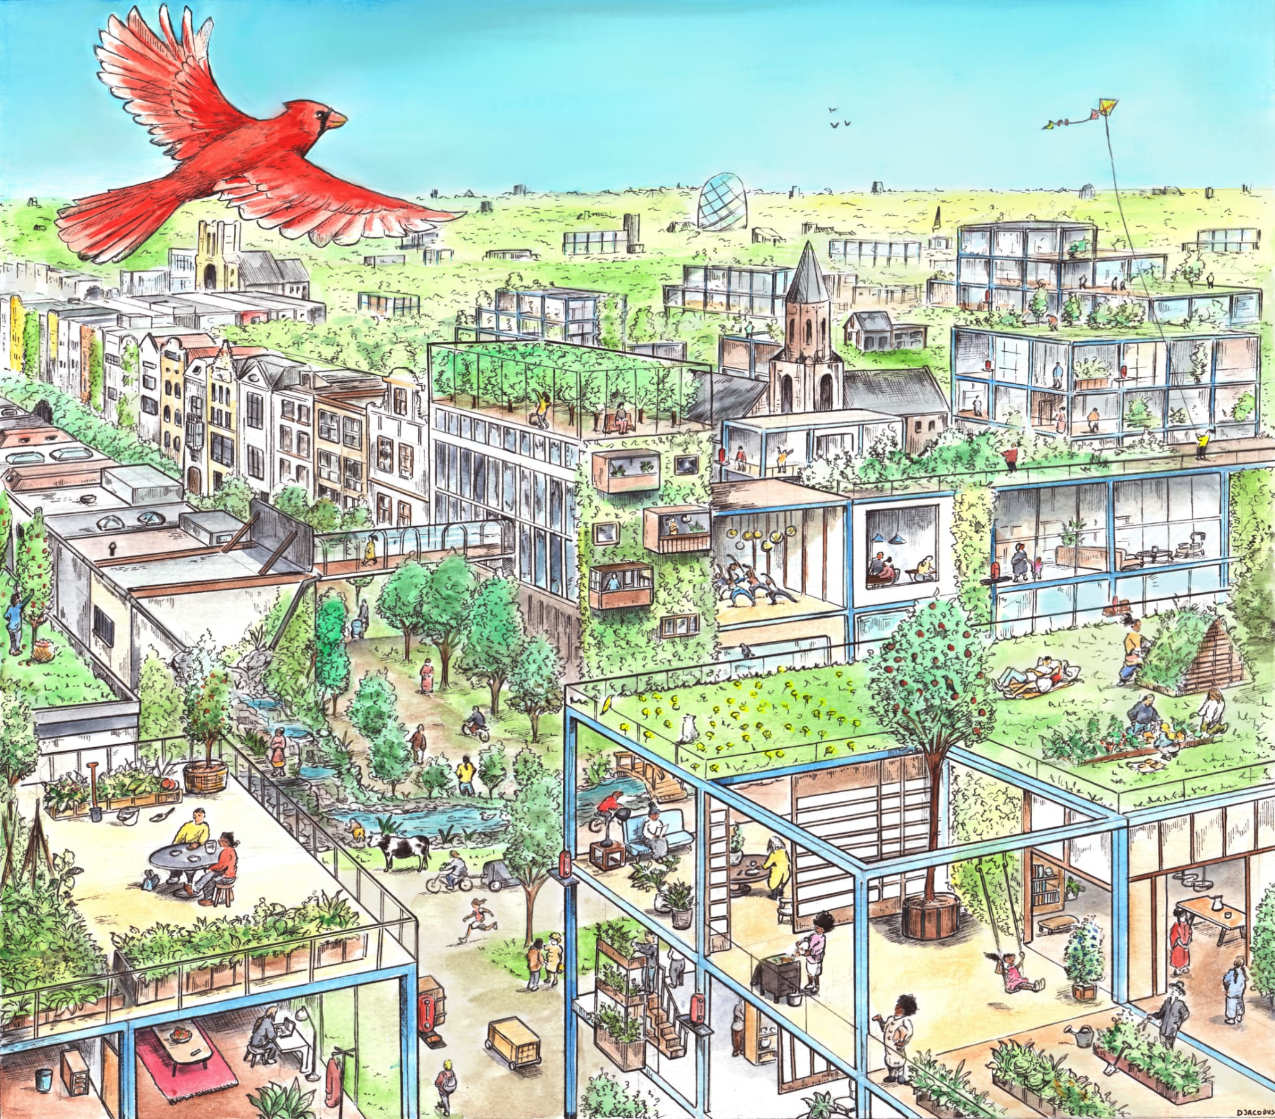
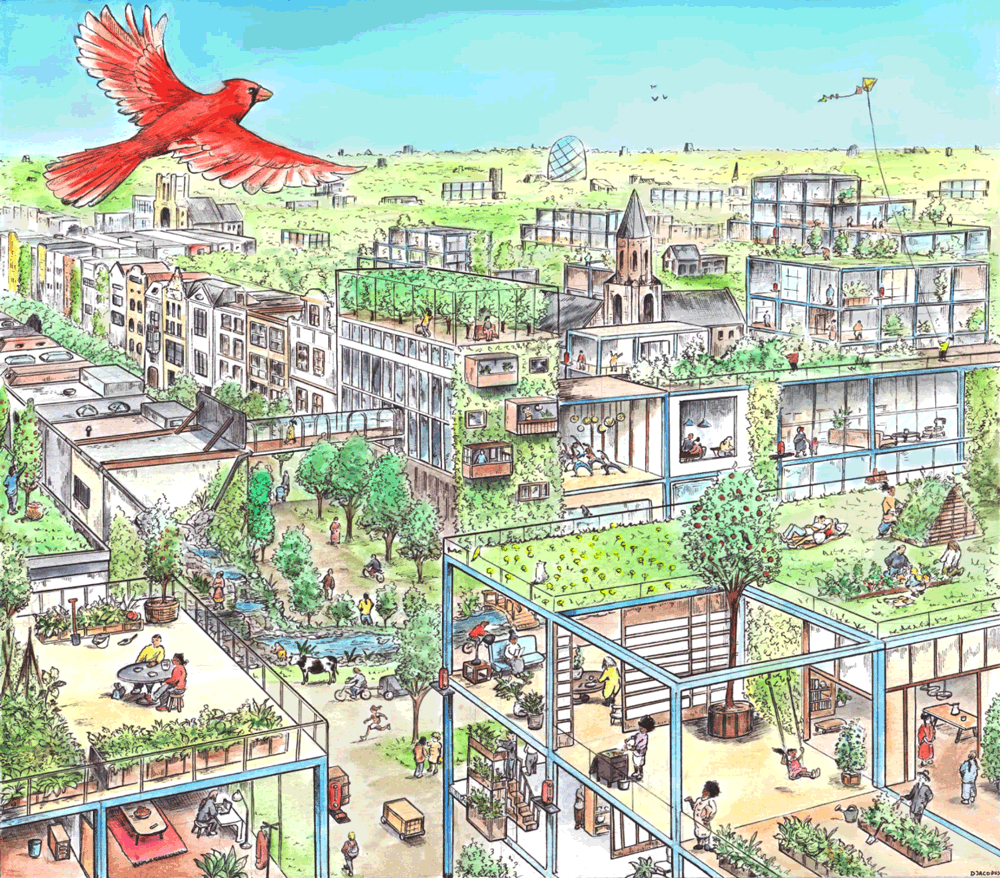
fixed images

diff --git a/frontend/solarpunk/stories/city-starlight-cemetery/index.html b/frontend/solarpunk/stories/city-starlight-cemetery/index.html
@@ -71,7 +71,7 @@
 			<div id="content-container">
 			<h1>City Starlight &amp; The Cemetery</h1>
 			<h2>Katrina Eilender. New Jersey, United States.</h2>
-			<img src=/images/CityStarlight.jpg class=pencil alt=lovely&#32;picture >
+			<img src=/images/CityStarlight.png class=pencil alt=lovely&#32;picture >
 				<div class="storyCaption"> </div>
 			<div class="story-text">
 				<p><strong>City Starlight</strong></p>
